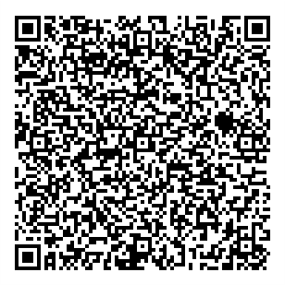
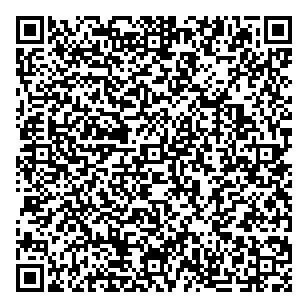
added special cases

diff --git a/LV/1.0.0/README.md b/LV/1.0.0/README.md
@@ -3,7 +3,7 @@
 * **JSON schema version**: 1.0.0
 
 Used for productive DCCs issuance
-* From: 10.06.2021
+* From: 19.06.2021
 * Until:
 
 ## Test files
@@ -21,3 +21,83 @@ Used for productive DCCs issuance
 ### Recovery
 
 ![REC](REC.png)
+
+
+
+### Special cases and deviations
+
+### A number of vaccination DCCs have been issued with universal vp value (vp=J07BX03) and one dose of two (1/2)
+
+### Vaccination
+
+![VAC](specialcases/VAC_one_does_of_two.png)
+
+
+### A number of vaccination DCCs have been issued with incorrect number in a series of doses (dn=7)
+
+### Vaccination
+
+![VAC](specialcases/VAC_incorrect_number_of_doses.png)
+
+
+### A number of vaccination DCCs have been issued with incorrect number in a series of doses (dn=115)
+
+### Vaccination
+
+![VAC](specialcases/VAC_incorrect_number_of_doses115.png)
+
+
+### A number of vaccination DCCs have been issued with incorrect (negative) number in a series of doses (dn=-2)
+
+### Vaccination
+
+![VAC](specialcases/VAC_incorrect_negative_number_of_doses.png)
+
+
+### A number of DCCs have been issued with name with not allowed characters in, fnt, gnt (fnt="EGLIS-EGLITIS" not "EGLIS<EGLITIS")
+
+### Vaccination
+
+![VAC](specialcases/VAC_not_allowed_characters_in_fnt.png)
+
+
+### A number of Test DCCs have been issued with NULL values in nm,ma
+
+### Test
+
+![TEST](specialcases/TEST_NULL_values_in_nm_ma.png)
+
+
+### A number of Recovery DCCs have been issued before df and df-fr=9 
+
+### Recovery
+
+![REC](specialcases/REC_df_minu_fr_equals_9.png)
+
+
+### A number of Recovery DCCs have been issued before df and df-fr=11 
+
+### Recovery
+
+![REC](specialcases/REC_df_minu_fr_equals_11.png)
+
+
+### A number of Recovery DCCs have been issued before df and df is prior date fr 
+
+### Recovery
+
+![REC](specialcases/REC_df_prior_date_fr.png)
+
+
+
+
+
+
+
+### A number of Test DCCs have been issued without issuer (iss)
+
+### Test
+
+![TEST](specialcases/TEST_without_issuer.png)
+
+
